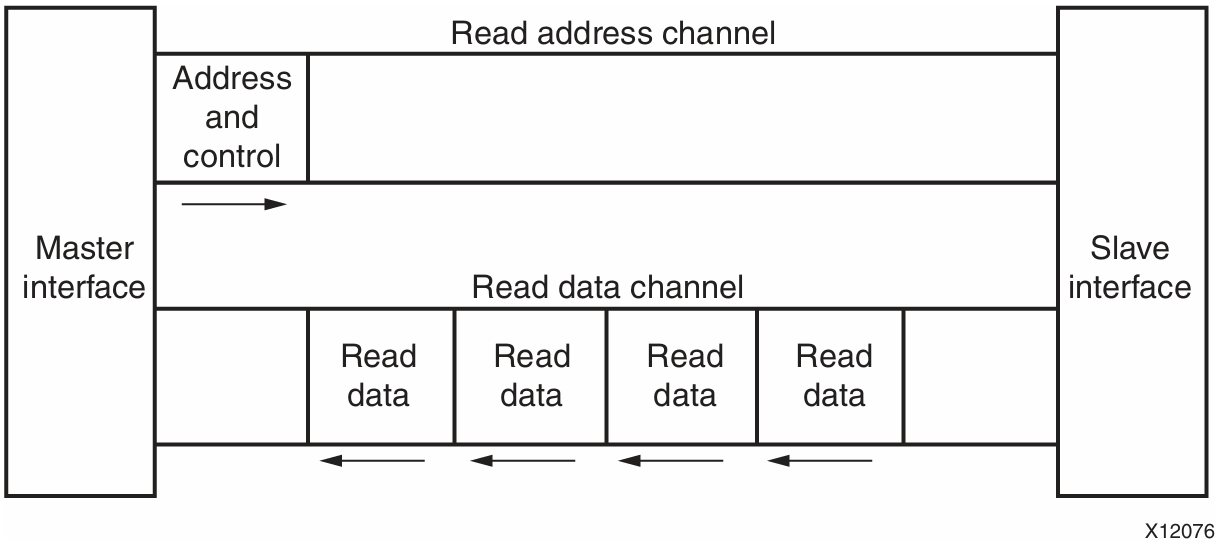
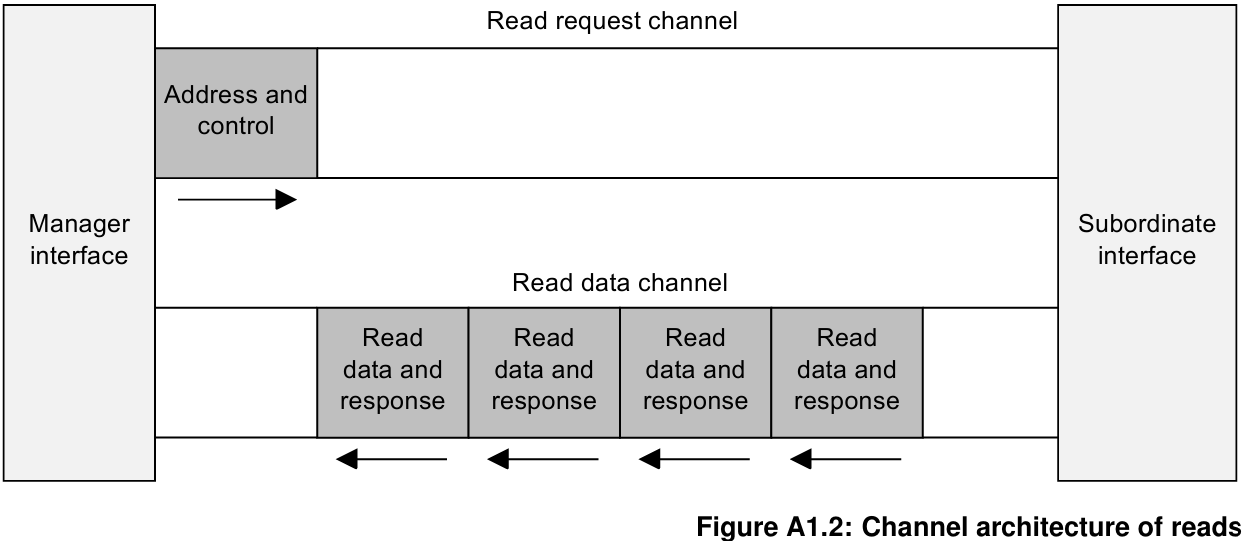
update fpga-axi-arch

Changed region(s): [[0.0, 0.0, 1.0, 1.0]]

diff --git a/source/_posts/fpga-axi-arch.md b/source/_posts/fpga-axi-arch.md
@@ -15,25 +15,58 @@ typora-root-url: fpga-axi-arch
 
 AXI4 协议规范描述了单个 AXI4 主机与从机之间的接口，这里的主机和从机表示的是需要交换信息的 IP 核心。如果你使用的是 Xilinx 的 FPGA 开发环境，它的环境中提供了 AXI 互联的 IP，以供使用内存映射的多个主机和多个从机相互连接。这些互联 IP 的接口数量是可以配置的，可以将多个主机接口和多个从机接口之间的事务进行路由。详细可以参考 Xilinx AXI Interconnect IP 以及 Xilinx AXI SmartConnect IP。
 
+（注意，从 2021 年开始，ARBA 总线的“主从”名称由“Master-Slave”改为“Manager-Subordinate” [1]。）
+
 AXI4 与 AXI-Lite 总线协议都包含了**五个**独立的通道，每条通道都能用于单独握手与数据流动，分别负责不同的功能：
 
-- 读地址通道（Read Address Channel）：用于传输读事务的地址与控制信息。
-- 读数据通道（Read Data Channel）：用于返回读取的数据以及读响应。
-- 写地址通道（Write Address Channel）：用于传输写事务的地址与控制信息。
-- 写数据通道（Write Data Channel）：用于传输实际要写入的数据。
-- 写响应通道（Write Response Channel）：用于反馈写操作的结果。
+- 读地址通道（Read Address Channel）：用于传输读事务的地址与控制信息，相关信号以 **AR** 开头。
+- 读数据通道（Read Data Channel）：用于返回读取的数据以及读响应，相关信号以 **R** 开头。
+- 写地址通道（Write Address Channel）：用于传输写事务的地址与控制信息，相关信号以 **AW** 开头。
+- 写数据通道（Write Data Channel）：用于传输实际要写入的数据，相关信号以 **W** 开头。
+- 写响应通道（Write Response Channel）：用于反馈写操作的结果，相关信号以 **B** 开头。
 
-这些主从通道是双向的，而且每次事务中数据传输的大小是可变的。AXI4 协议可以发起突发传输，传输至多 256 个数据；AXI4-Lite 只允许每个事务传输一个数据。
+这些主从通道是双向的，而且每次事务中数据传输的大小是可变的。AXI4 协议可以发起突发传输，传输至多 256 个周期的数据 [2]；AXI4-Lite 只允许每个事务传输一个数据。通过配置相应的 DATA_WIDTH 字段，可以选择至多 1024 bits 的数据传输位宽 [2]。
 
 读通道如下图所示：
 
-<img src="write_channel.png" style="zoom:60%;" />
+<img src="read_channel.png" style="zoom:60%;" />
 
 写通道如下图所示：
 
-<img src="read_channel.png" style="zoom:60%;" />
+<img src="write_channel.png" style="zoom:60%;" />
 
 这种通道分离设计的优势是能够提升并行性：地址传输、数据传输与响应传输相互独立，不会互相阻塞，能够提高吞吐率和系统利用率。
+
+在一个系统中，主从设备可以通过一个互联结构（Interconnect）相互连接，Interconnect 拥有与主从设备对称的 AXI 接口以供连接。Interconnect 内部的连接取决于具体的实现，而 AXI 协议只规定相应的接口和传输方式，如下图所示：
+
+<img src="interconnect.png" style="zoom:60%;" />
+
+一个比较经典的 Interconnect 实现是 Xilinx 的 AXI Interconnect / Smartconnect IP [3-4]，其中 AXI Interconnect 的顶层结构如图所示。在其内部，一个 Crossbar 核心在从接口（SI）和主接口（MI）之间路由流量。沿着连接 SI 或 MI 到 Crossbar 的每个路径，可选的 AXI 基础设施核心（耦合器）系列可以执行各种转换和缓冲功能。可能包含的耦合器有：寄存器切片、数据 FIFO、时钟转换器、数据宽度转换器和协议转换器。AXI Interconnect 核心可以配置为最多16个 SI 和最多16个 MI。
+
+<img src="xilinx_interconnect_top.png" style="zoom:80%;" />
+
+每个 AXI Interconnect 核心可以根据需求配置为以下几种工作模式：
+
+- N-to-1 Interconnect
+- 1-to-N Interconnect
+- N-to-M Interconnect (Crossbar Mode)
+- N-to-M Interconnect (Shared Access Mode)
+
+它们的基本结构如下图所示：
+
+<img src="2-2.png" style="zoom:50%;" />
+
+
+
+<img src="2-3.png" style="zoom:50%;" />
+
+
+
+<img src="2-4.png" style="zoom:50%;" />
+
+
+
+<img src="2-5.png" style="zoom:50%;" />
 
 
 
@@ -48,10 +81,24 @@ AXI4 通信的每条通道都基于统一的 **VALID-READY** 握手机制：vali
 
 如果两个组件之间的 valid 信号相互等待彼此的 ready 信号，则会造成死锁。
 
+下图给出了读写事务中 valid 和 ready 信号之间的依赖关系，其中，单箭头表示汇节点可以在源节点之前或之后被断言，双箭头表示汇节点只能在源节点被断言之后才可被断言。
+
+读事务信号的依赖关系如下图所示：
+
+<img src="read_dependency.png" style="zoom:50%;" />
+
+写事务信号的依赖关系如下图所示：
+
+<img src="write_dependency.png" style="zoom:50%;" />
 
 
-### 3. AXI4 事务流程
 
+### 参考文献
 
+[1] [AMBA Specifications – Arm®](https://www.arm.com/architecture/system-architectures/amba/amba-specifications)
 
-### 4. AXI4 时序设计规则
+[2] [Vivado Design Suite: AXI Reference Guide (UG1037)](https://china.xilinx.com/support/documents/ip_documentation/axi_ref_guide/latest/ug1037-vivado-axi-reference-guide.pdf)
+
+[3] [AXI Interconnect v2.1 LogiCORE IP Product Guide](https://www.xilinx.com/support/documents/ip_documentation/axi_interconnect/v2_1/pg059-axi-interconnect.pdf)
+
+[4] [SmartConnect v1.0 LogiCORE IP Product Guide](https://www.xilinx.com/support/documents/ip_documentation/smartconnect/v1_0/pg247-smartconnect.pdf)
